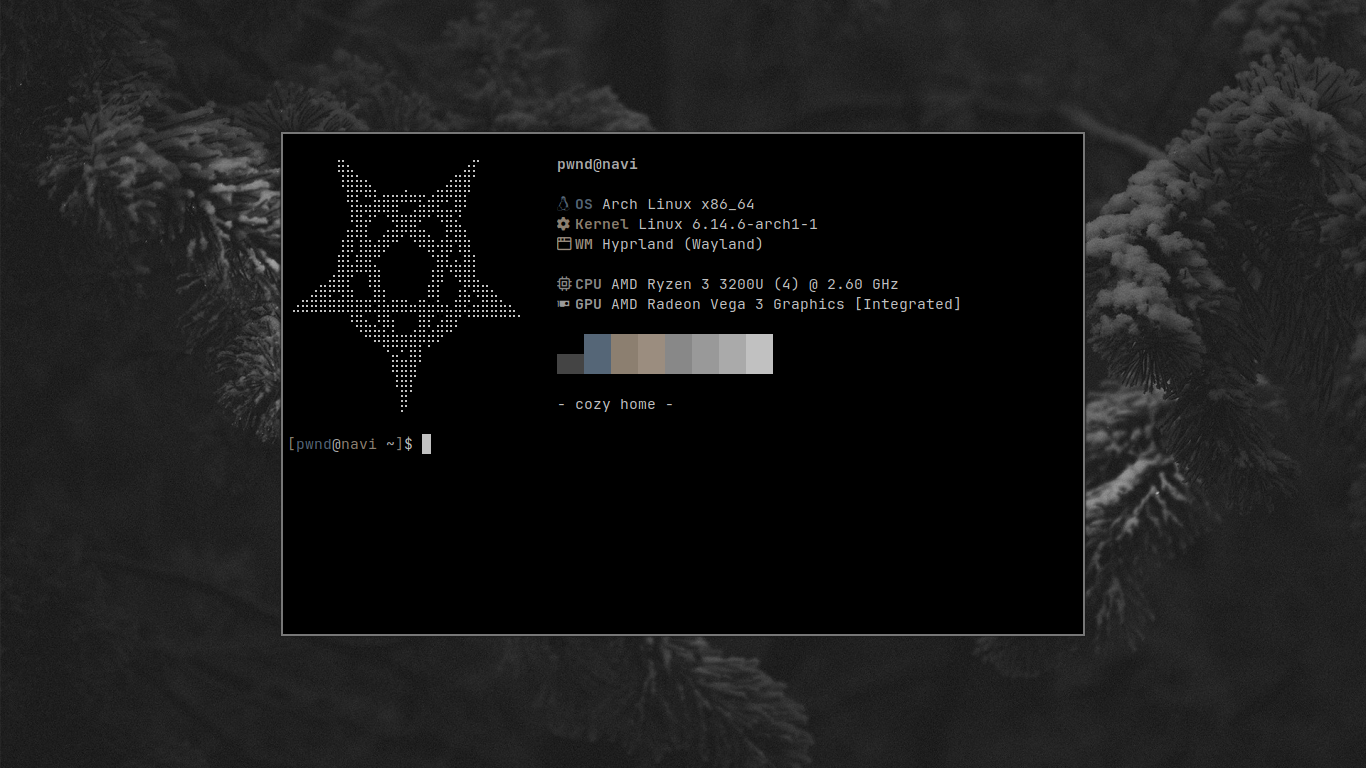
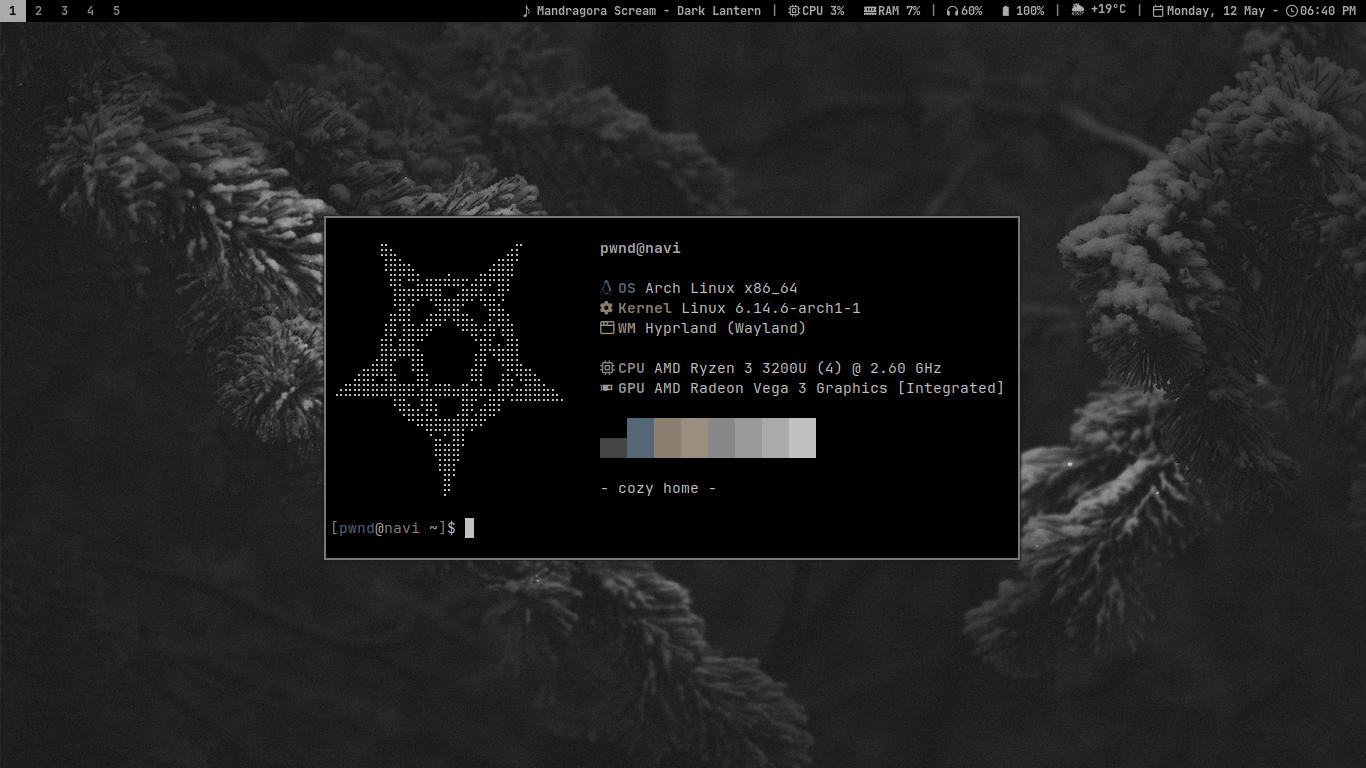
updated

Changed region(s): [[0.1845, 0.1562, 0.7994, 0.8438], [0.0, 0.0, 1.0, 0.0312], [0.4612, 0.625, 0.5227, 0.6562]]

diff --git a/.config/waybar/style.css b/.config/waybar/style.css
@@ -1,0 +1,90 @@
+* {
+    font-family: JetBrainsMono Nerd Font;
+    font-size: 12px;
+    font-weight: bold;
+    border: none;
+    border-radius: 0;
+    min-height: 0;
+}
+
+/* Colors */
+
+@define-color background    #000000;
+@define-color foreground    #aaaaaa;
+
+@define-color color1        #556677;
+@define-color color2        #8c7f70;
+@define-color color3        #9b8d7f;
+@define-color color4        #888888;
+@define-color color5        #999999;
+@define-color color6        #c1c1c1;
+
+window#waybar {
+    background: rgba(0, 0, 0, 1);
+}
+
+#workspaces button {
+    color: @color4;
+    background: transparent;
+    padding: 0 5px;
+}
+
+#workspaces button.active {
+    color: @background;
+    background-color: @foreground;
+}
+
+/* Custom stuff */
+
+#custom-separator {
+    color: rgba(255, 255, 255, 0.5)
+}
+
+#custom-weather {
+    color: @foreground;
+    padding-left: 10px;
+    padding-right: 10px;
+}
+
+#custom-cmus {
+    color: @foreground;
+    padding-left: 10px;
+    padding-right: 10px;
+}
+
+/* Modules */
+
+#cpu {
+    color: @foreground;
+    padding-left: 10px;
+    padding-right: 10px;
+}
+
+#memory {
+    color: @foreground;
+    padding-left: 10px;
+    padding-right: 10px;
+}
+
+#tray {
+    padding-left: 10px;
+    padding-right: 10px;
+}
+
+#pulseaudio {
+    color: @foreground;
+    padding-left: 10px;
+    padding-right: 10px;
+}
+
+#battery {
+    color: @foreground;
+    padding-left: 10px;
+    padding-right: 10px;
+}
+
+#clock {
+    color: @foreground;
+    padding-left: 10px;
+    padding-right: 10px;
+}
